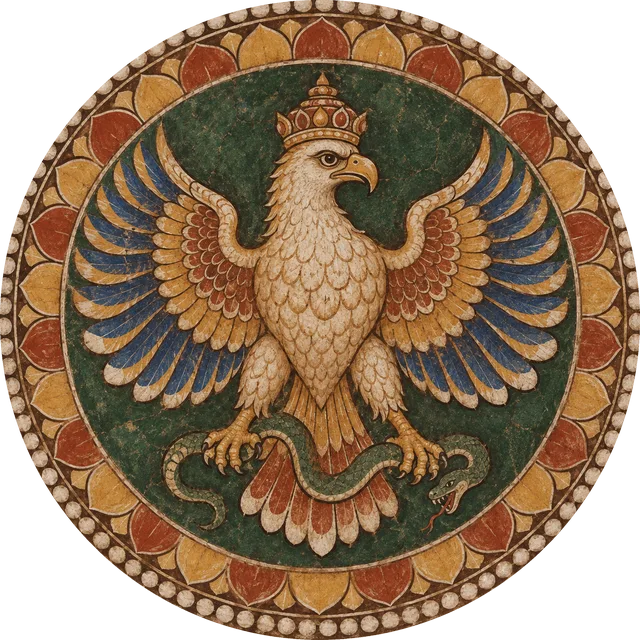
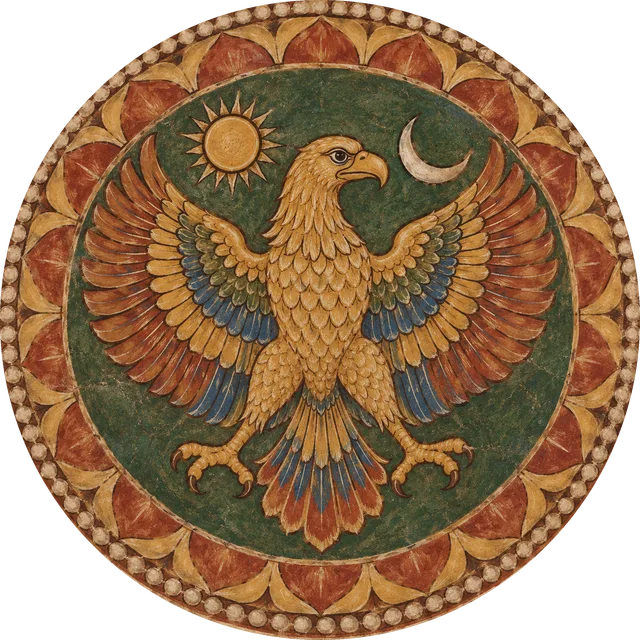
Repaint 12 emblems to match their scholarly descriptions (Ksatrapa, Gupta, Sarabhapuriya, Chalukya, Paramara, Kakatiya, Yadava, Chandela, Jaipur, Vijayanagara, Sikh, Travancore)
Claude-Session: https://claude.ai/code/session_01DgRK3tMrch3BCqmBE3ynVe

diff --git a/lanchhana/register.html b/lanchhana/register.html
@@ -285,7 +285,7 @@ const srcTitle = k => SRC[k][0];
 function flagSvg(f){ return `<figure class="flag" title="${esc(f.cap)}"><svg viewBox="0 0 60 40" aria-hidden="true"><line x1="1" y1="0" x2="1" y2="40" stroke="#5a4632" stroke-width="2"/>${f.svg}</svg><figcaption><span class="conf ${f.conf}">flag · ${f.conf}</span></figcaption></figure>`; }
 function art(c, big){
   if (c.pending) return `<div class="pending"><div><b>${esc(c.e)}</b>Painting in progress</div></div>`;
-  return `<img class="medal" ${big?"":'loading="lazy"'} src="${c.img}?v=7" width="240" height="240" alt="${esc(c.e)}, interpretive painting">`;
+  return `<img class="medal" ${big?"":'loading="lazy"'} src="${c.img}?v=8" width="240" height="240" alt="${esc(c.e)}, interpretive painting">`;
 }
 function sub(c){ return c.tab==="itihasa" ? c.who : c.d; }
 
@@ -337,7 +337,7 @@ renderAll();
     const list=C.filter(c=>c.motifs.includes(k)).sort((a,b)=>order.indexOf(a.tab)-order.indexOf(b.tab));
     const counts=order.map(t=>[t,list.filter(c=>c.tab===t).length]).filter(x=>x[1]);
     return `<section class="motif" id="motif-${k}"><div><h3>${esc(label)}</h3><p class="count"><b>${list.length}</b> entries · ${counts.map(([t,n])=>`${n} ${tabShort[t].toLowerCase()}`).join(" · ")}</p></div>
-      <div class="strip">${list.map(c=>`<button class="mini t-${c.tab}" type="button" data-id="${c.id}">${c.pending?`<div class="ph"></div>`:`<img src="${c.img}?v=7" alt="" loading="lazy">`}<b>${esc(c.tab==="itihasa"?c.who:c.n.replace(/\s*\(.*?\)/,""))}</b><span>${tabShort[c.tab]}</span></button>`).join("")}</div></section>`;
+      <div class="strip">${list.map(c=>`<button class="mini t-${c.tab}" type="button" data-id="${c.id}">${c.pending?`<div class="ph"></div>`:`<img src="${c.img}?v=8" alt="" loading="lazy">`}<b>${esc(c.tab==="itihasa"?c.who:c.n.replace(/\s*\(.*?\)/,""))}</b><span>${tabShort[c.tab]}</span></button>`).join("")}</div></section>`;
   }).join("");
   Object.entries(MOTIFS).forEach(([k,label])=>{ const a=document.createElement("a"); a.className="chip"; a.href="#motif-"+k; a.textContent=label.split(/[ ,(]/)[0]; box.appendChild(a); });
 })();

diff --git a/lanchhana/index.html b/lanchhana/index.html
@@ -184,7 +184,7 @@ const {SRC, MOTIFS, cards:C} = window.LR;
 const BY=Object.fromEntries(C.map(c=>[c.id,c]));
 const esc=s=>String(s).replace(/&/g,"&amp;").replace(/</g,"&lt;").replace(/"/g,"&quot;");
 const name=c=>c.tab==="itihasa"?c.who:c.n.replace(/\s*\(.*?\)/,"");
-const img=c=>`${c.img}?v=7`;
+const img=c=>`${c.img}?v=8`;
 
 /* tray: centre plus a ring of six */
 const trayIds=["arjuna","gupta","chola","bhishma","ahom","pala","vijayanagara"];
